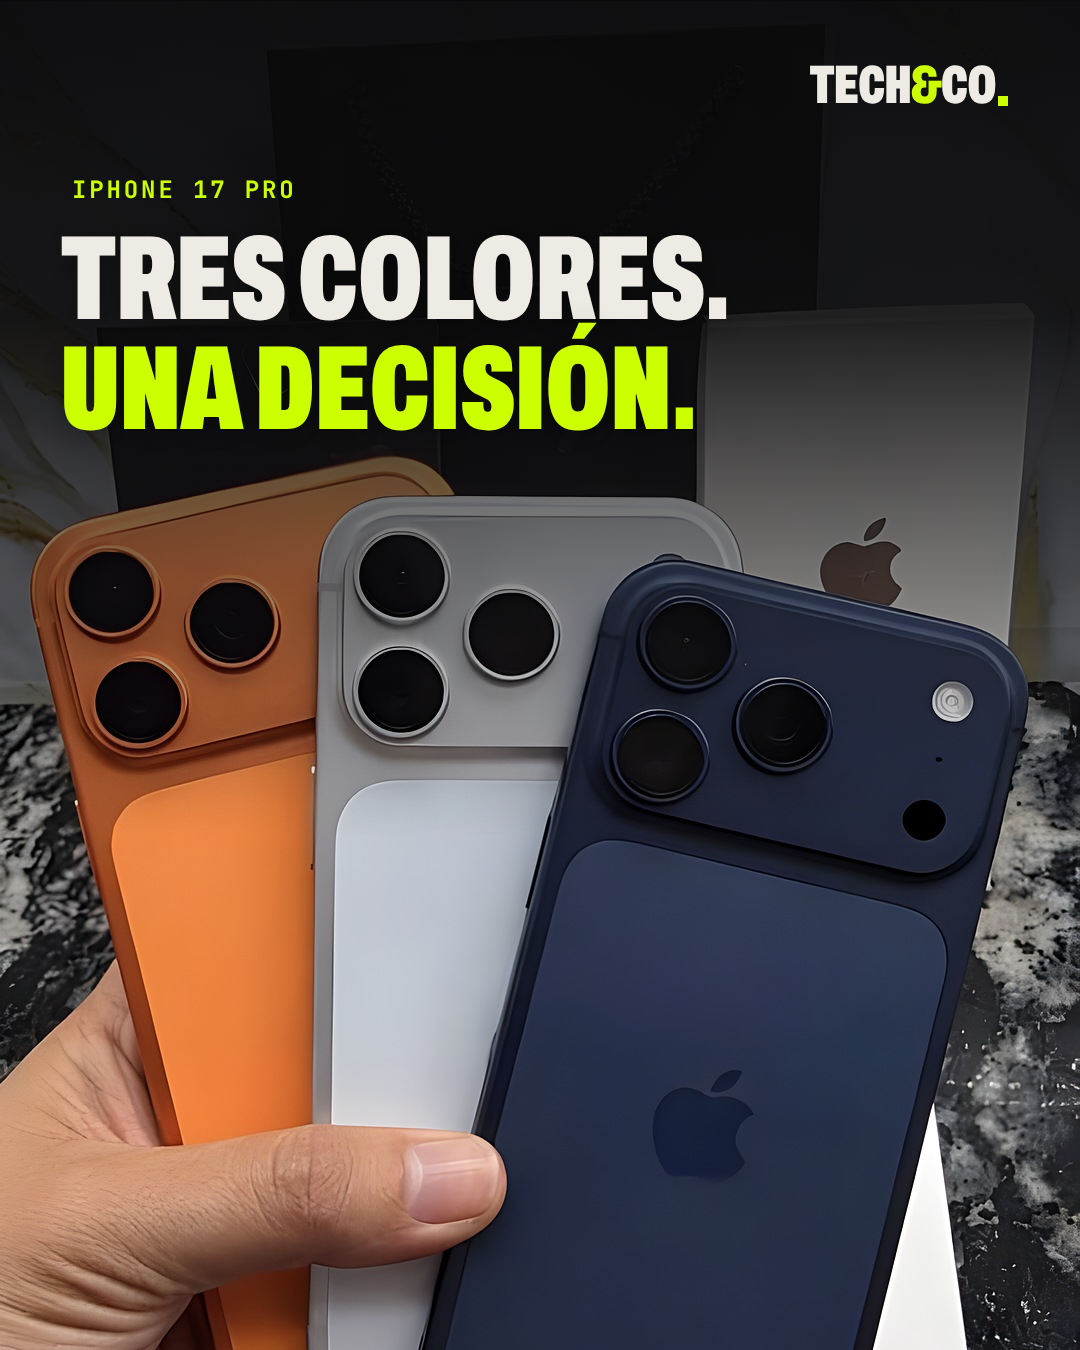
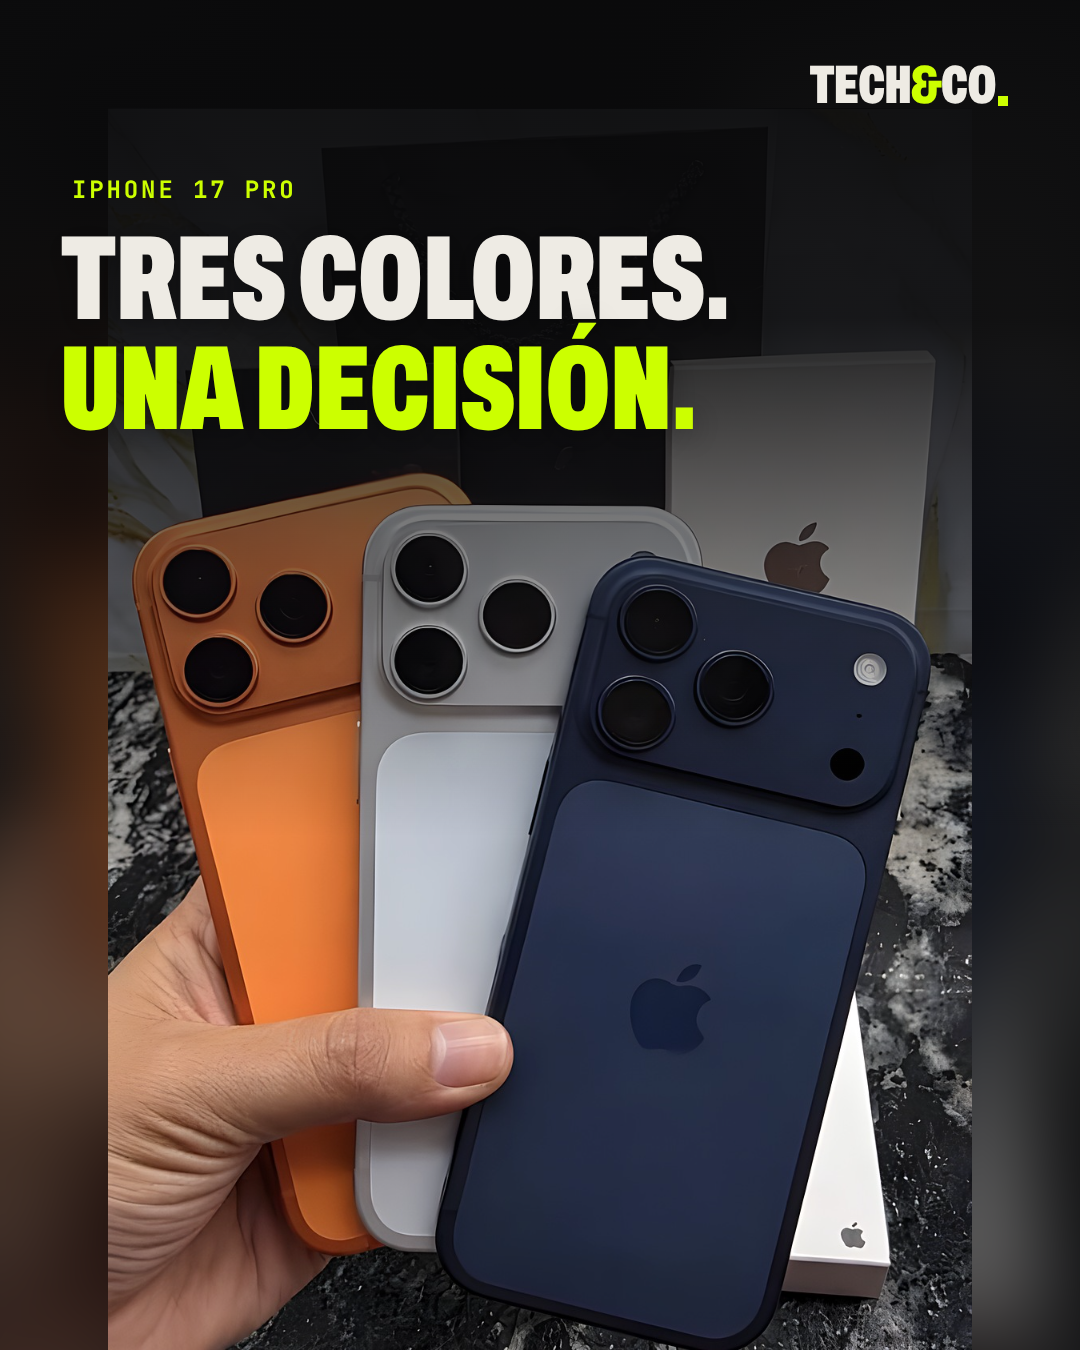
Posts 17 Pro en la mano: foto entera (achicada, costados con la misma foto desenfocada) para que se vean los equipos completos
Claude-Session: https://claude.ai/code/session_01QjqnXA2NEseQ99853TgKmF

diff --git a/plantillas/foto.html b/plantillas/foto.html
@@ -49,7 +49,7 @@ const FOTOS = {
   naranja: { foto: "iphone-17-pro_naranja_mano", ojo: "iPhone 17 Pro", titulo: "Naranja<br><b>cósmico.</b>", t: "--t-l",
              datos: ["Swap o en caja sellada", "Te lo conseguimos"], pos: "50% 10%" },
   colores: { foto: "iphone-17-pro_tres-colores_mano", ojo: "iPhone 17 Pro", titulo: "¿Cuál es<br><b>el tuyo?</b>", t: "--t-m",
-             datos: [], limpio: true, pos: "50% 0%" },
+             datos: [], limpio: true, encoger: 0.8, pos: "50% 100%" },
   cajas: { foto: "iphone-17-pro_tres-colores_cajas", ojo: "iPhone 17 Pro", titulo: "¿Naranja, plata<br><b>o azul?</b>", t: "--t-l",
            datos: [], limpio: true, fundido: true, zoom: 1.12, pos: "50% 0%" },
   "14pro": { foto: "iphone-14-pro_plata_accesorios", ojo: "iPhone 14 Pro · Swap", titulo: "Pro, a tu<br><b>alcance.</b>", t: "--t-l",
@@ -69,6 +69,15 @@ const $ = (s) => document.getElementById(s);
 const H = hist ? 1920 : 1350;
 $("foto").src = `../fotos-proveedor/hd/${F.foto}.jpg`;
 $("foto").style.objectPosition = F.pos;
+// encoger: la foto entra entera (pegada abajo) y a los costados la misma foto desenfocada
+if (F.encoger) {
+  const fondo = $("foto").cloneNode();
+  fondo.removeAttribute("id");
+  Object.assign(fondo.style, { filter: "blur(40px) brightness(.45)", transform: "scale(1.15)" });
+  $("foto").before(fondo);
+  const w = 1080 * F.encoger;
+  Object.assign($("foto").style, { inset: "auto", width: w + "px", height: "auto", left: (1080 - w) / 2 + "px", bottom: "0px" });
+}
 // zoom: agranda la foto desde arriba para que abajo no se vean cosas cortadas
 if (F.zoom) Object.assign($("foto").style, { transform: `scale(${F.zoom})`, transformOrigin: "50% 0%" });
 $("ojo").textContent = F.ojo;
@@ -77,6 +86,7 @@ $("titulo").style.fontSize = `var(${F.t})`;
 $("datos").innerHTML = F.datos.map((d) => `<span>${d}</span>`).join("");
 // limpio: sin datos ni pie (solo el hook y la foto)
 if (F.limpio) { $("pie").remove(); if (!F.fundido) document.querySelector(".velo-abajo").remove(); }
+if (F.encoger) $("titulo").style.fontSize = "var(--t-m)";
 const arriba = hist ? 250 : 64;
 $("cabeza").style.top = arriba + "px";
 $("ojo").style.top = arriba + 110 + "px";
